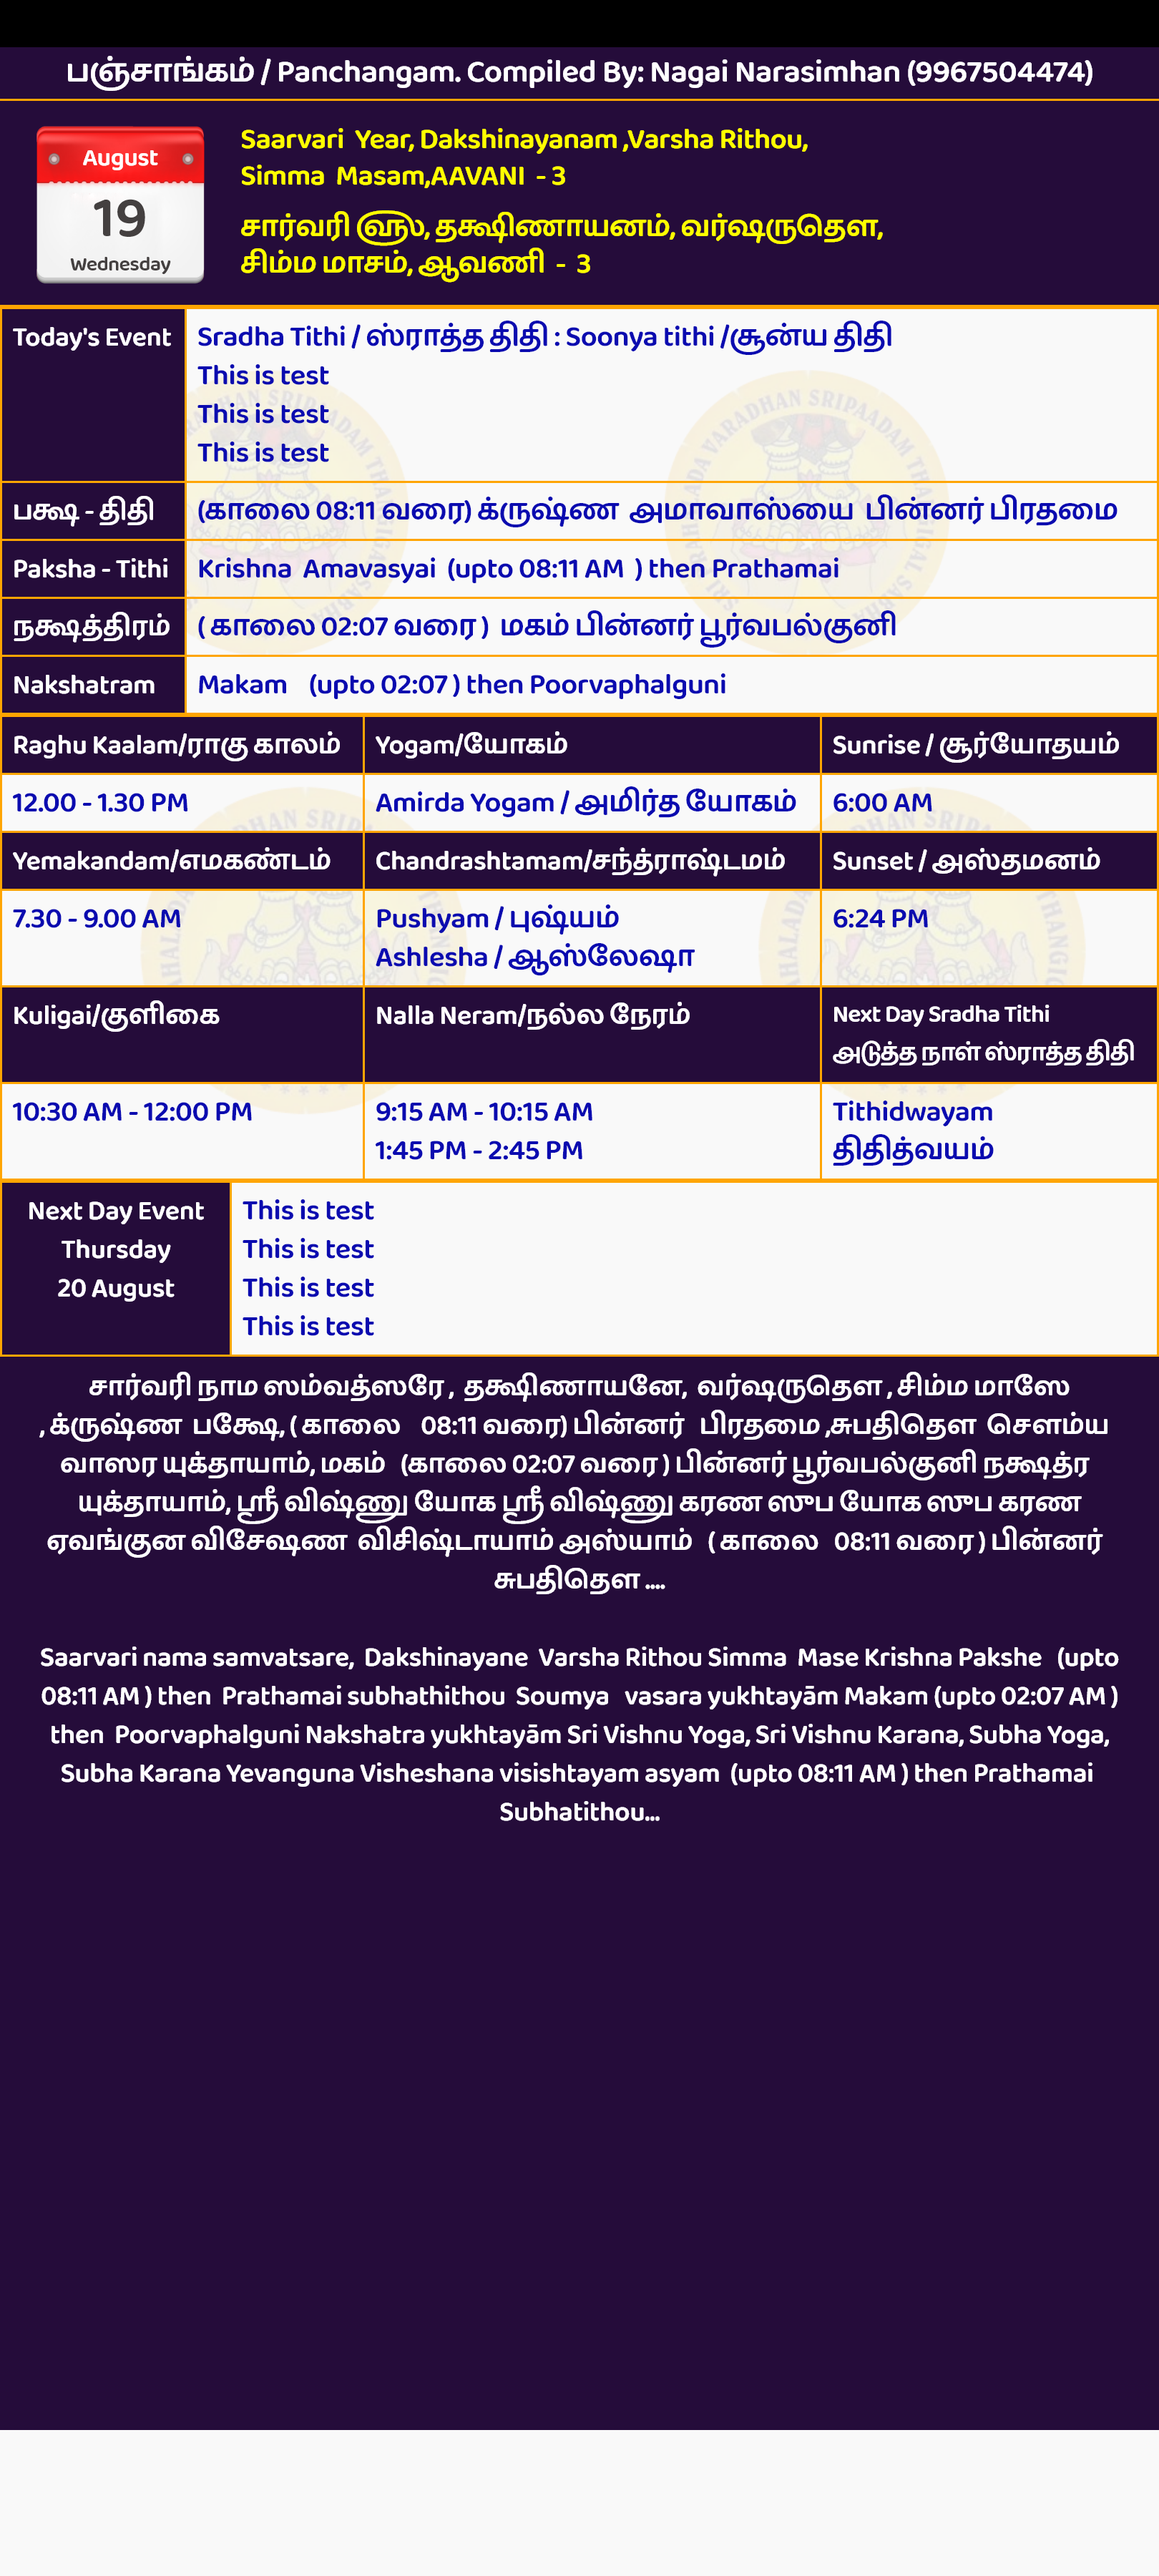
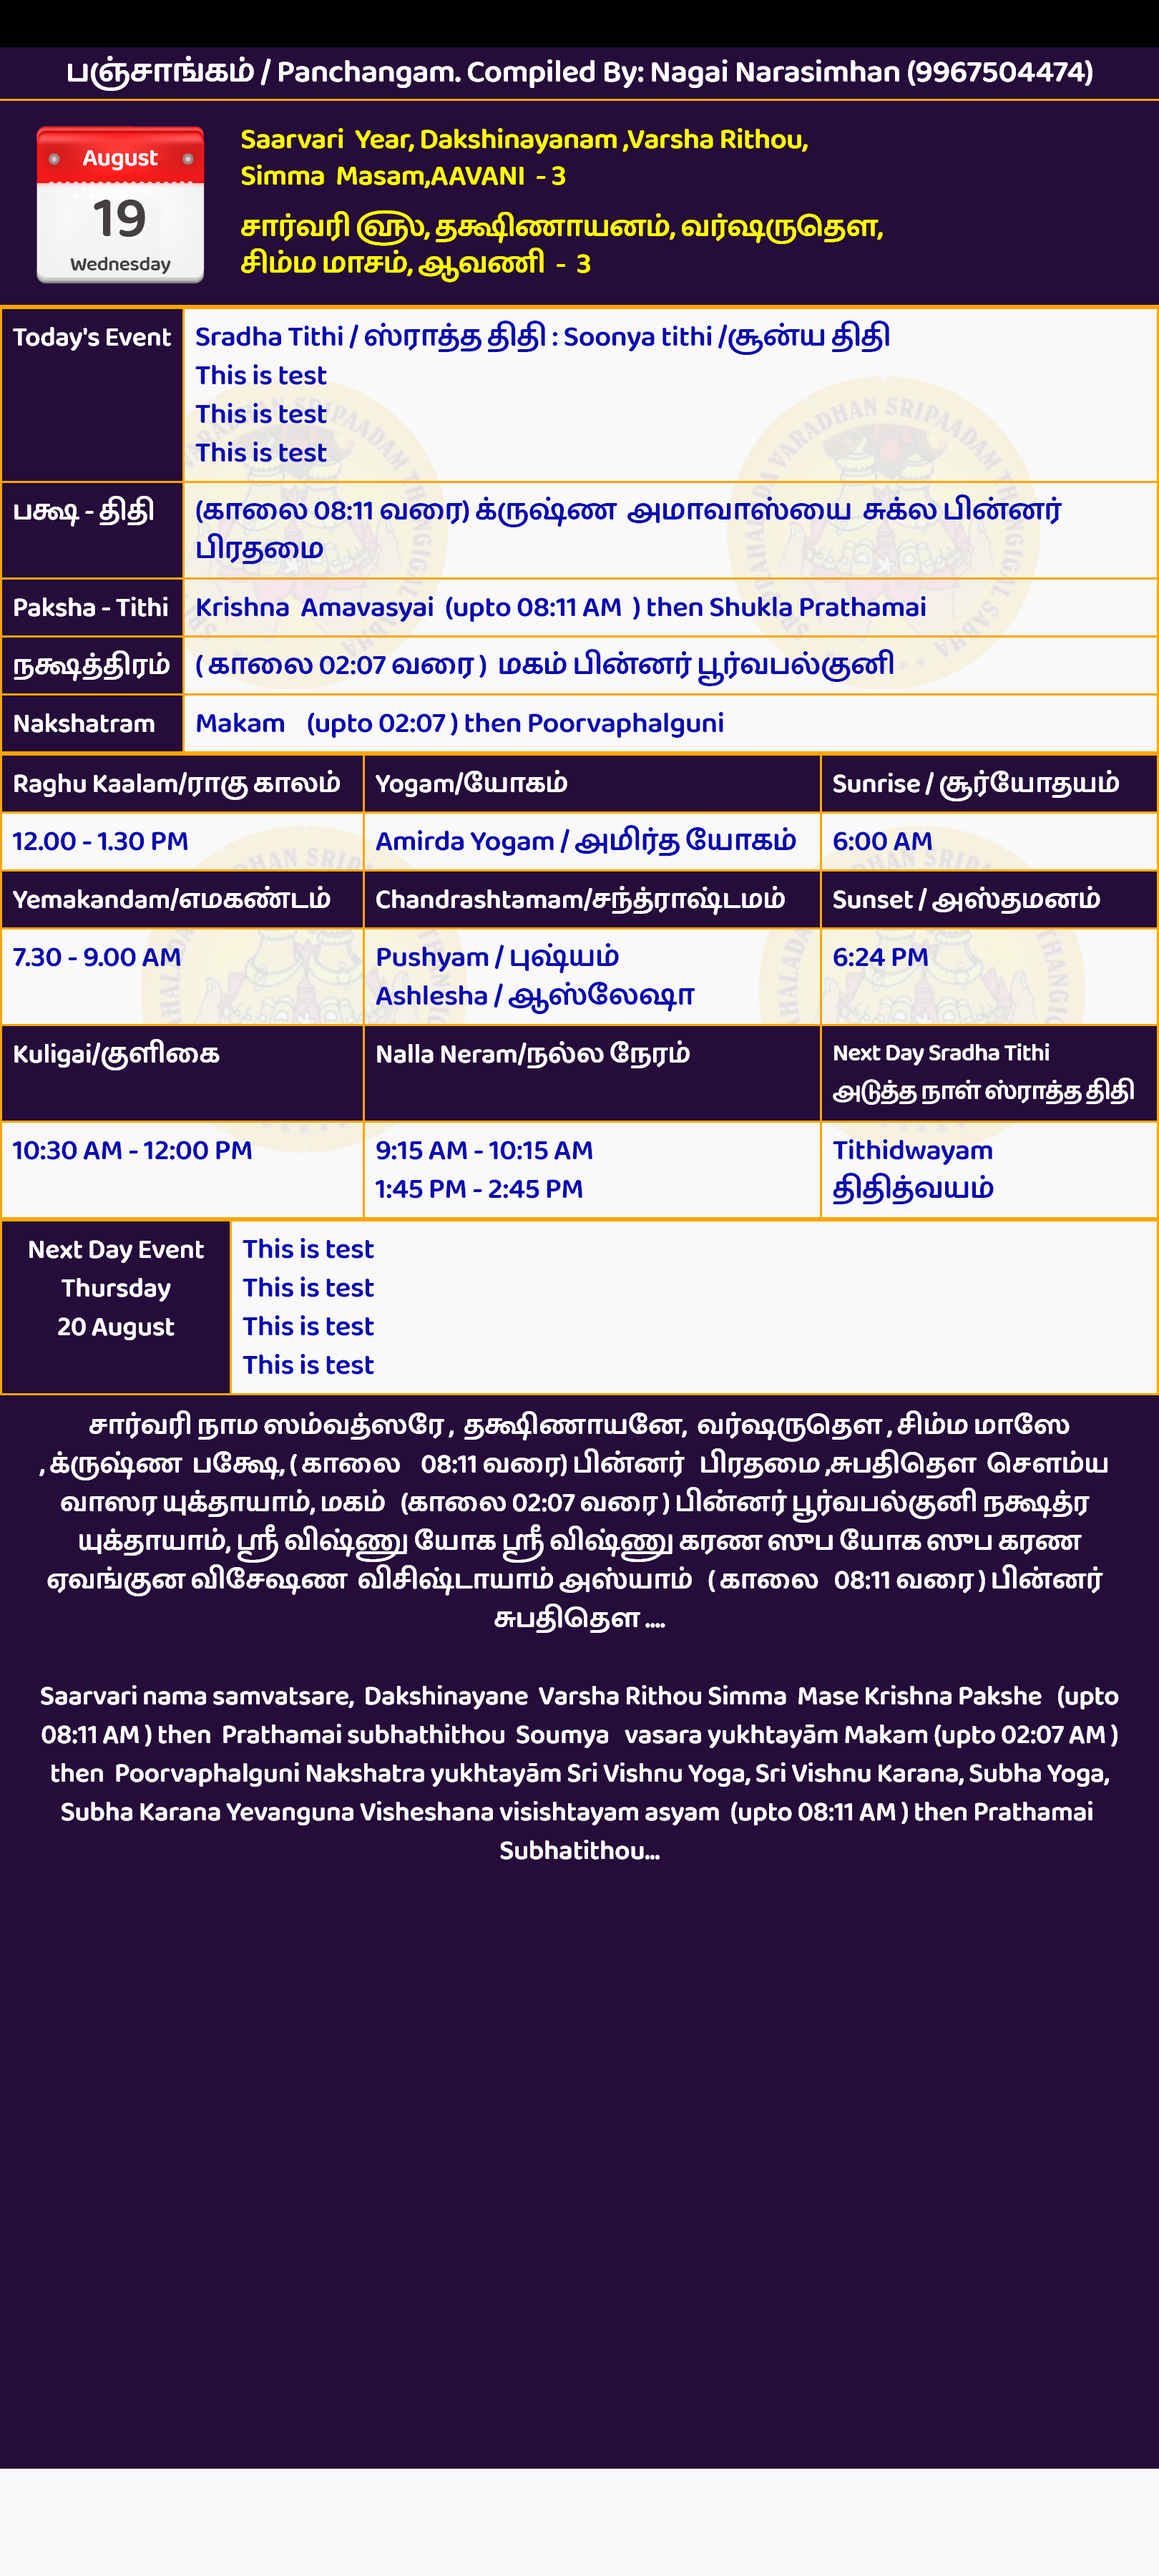
Final one

Changed region(s): [[0.0, 0.1244, 1.0, 0.7467], [0.0, 0.9333, 1.0, 0.9644]]

diff --git a/Client/src/layout/Mob.js b/Client/src/layout/Mob.js
@@ -115,7 +115,7 @@ return(
                     {datas?.Time?.split(" ")[1] === "AM" ? " (காலை" : ""} {datas?.Time?.split(" ")[1] === "PM"  ? "( மாலை" : ""}   { datas.Time ? datas?.Time?.split(" ")[0] + " வரை) " : ""} 
                     {datas && datas?.Pakshe && (datas?.Pakshe?.split("/")[1].split(" ")[1])} &nbsp;
                           {datas && datas.Tithi && (datas.Tithi.split("/")[1]).split(" ")[1] } &nbsp;     
-                          {(datas?.Pakshe?.split(" ")[0].toLowerCase()[0]==='s' && datas?.NextTithi?.split(" ")[0] === 'Prathamai')? "க்ருஷ்ண ":"சுக்ல "}                                     
+                          {datas?.NextTithi?.split(" ")[0] === 'Prathamai' ? (datas?.Pakshe?.split(" ")[0].toLowerCase()[0]==='s')? "க்ருஷ்ண ":"சுக்ல " : ""}                                     
                           {datas && datas.NextTithi && `பின்னர் ${ datas.NextTithi.split("/")[1].split(" ")[1]}`}&nbsp;
                     </td>
                 </tr>
@@ -126,7 +126,7 @@ return(
                                {datas && datas.Tithi && datas.Tithi.split(" ")[0] } &nbsp;
                                {datas && `(upto ${datas.Time}`} &nbsp;
                                {datas && datas.NextTithi && ") then"}&nbsp;
-                               {(datas?.Pakshe?.split(" ")[0].toLowerCase()[0]==='s' && datas?.NextTithi?.split(" ")[0] === 'Prathamai') ?"Krishna ":"Shukla "}   
+                               {datas?.NextTithi?.split(" ")[0] === 'Prathamai' ? (datas?.Pakshe?.split(" ")[0].toLowerCase()[0]==='s') ?"Krishna ":"Shukla ":""}   
                                {datas && datas.NextTithi && datas.NextTithi.split(" ")[0] }&nbsp;
                     </td>
                 </tr>
